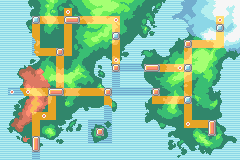
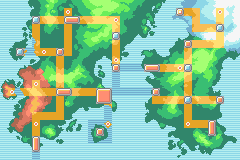
Updates to region layout, add toggle route display

diff --git a/region/index.html b/region/index.html
@@ -11,6 +11,12 @@
             font-weight: normal;
             font-style: normal;
         }
+        @font-face {
+            font-family: 'Pokemon Gen3 Battle';
+            src: url('../pokemon-gen3-battle.otf.woff2') format('woff2');
+            font-weight: normal;
+            font-style: normal;
+        }
         body {
             margin: 0;
             font-family: Arial, sans-serif;
@@ -108,6 +114,10 @@
             width: 3.3cqw;
             height: auto;
         }
+        .hotspot.biggest-city img {
+            width: 6.6cqw;
+            height: auto;
+        }
         .hotspot.town img {
             width: 3.3cqw;
             height: auto;
@@ -115,6 +125,24 @@
         .hotspot.landmark img {
             width: 3.3cqw;
             height: auto;
+        }
+        .hotspot.league img {
+            width: 3.3cqw;
+            height: auto;
+        }
+
+        /* Route number markers */
+        .route-marker {
+            position: absolute;
+            transform: translate(-50%, -50%);
+            color: #b8890e;
+            font-family: 'Pokemon Gen3 Battle', cursive;
+            font-size: 1.4cqw;
+            -webkit-font-smoothing: antialiased;
+            -moz-osx-font-smoothing: grayscale;
+            pointer-events: none;
+            white-space: nowrap;
+            z-index: 5;
         }
 
         /* Tooltip */
@@ -226,11 +254,26 @@
             color: rgba(255, 255, 255, 0.9);
             line-height: 1.4;
         }
+        .wip-toggle {
+            display: flex;
+            align-items: center;
+            gap: 8px;
+            cursor: pointer;
+            color: rgba(255, 255, 255, 0.9);
+            line-height: 1.4;
+        }
+        .wip-toggle input {
+            cursor: pointer;
+            accent-color: #ffcc00;
+        }
+        .map-container.routes-hidden .route-marker {
+            display: none;
+        }
         .wip-section {
             display: flex;
             flex-direction: column;
         }
-        .wip-section:first-child {
+        .wip-section:not(:last-child) {
             padding-bottom: 12px;
             border-bottom: 1px solid rgba(255, 255, 255, 0.3);
         }
@@ -285,7 +328,7 @@
             .wip-banner h4 {
                 font-size: 14px;
             }
-            .wip-section:first-child {
+            .wip-section:not(:last-child) {
                 padding-bottom: 6px;
             }
             .hotspot .tooltip {
@@ -322,7 +365,7 @@
                 flex: 1;
                 min-width: 120px;
             }
-            .wip-section:first-child {
+            .wip-section:not(:last-child) {
                 border-bottom: none;
                 padding-bottom: 0;
                 border-right: 1px solid rgba(255, 255, 255, 0.3);
@@ -364,7 +407,7 @@
                 font-size: 12px;
                 margin-bottom: 3px;
             }
-            .wip-section:first-child {
+            .wip-section:not(:last-child) {
                 padding-bottom: 4px;
             }
         }
@@ -384,19 +427,11 @@
             <!-- WIP Banner (outside map-container for fixed position) -->
             <div class="wip-banner">
                 <div class="wip-section">
-                    <h4>CITIES TO ADD</h4>
-                    <ul>
-                        <li>Sheliana City</li>
-                        <li>Limelock Island</li>
-                        <li>Loftshore City</li>
-                        <li>Citridock Village</li>
-                    </ul>
-                </div>
-                <div class="wip-section">
-                    <h4>SPOTS TO ADD</h4>
-                    <ul>
-                        <li>Corsola Cradle</li>
-                    </ul>
+                    <h4>DISPLAY</h4>
+                    <label class="wip-toggle">
+                        <input type="checkbox" id="toggle-routes" checked>
+                        Show Routes
+                    </label>
                 </div>
             </div>
 
@@ -408,31 +443,35 @@
                 <img src="../landmark.PNG" alt="">
                 <span class="tooltip">Fernhill Forest</span>
             </div>
-            <div class="hotspot landmark" style="left: 48.4%; top: 37.5%;">
+            <div class="hotspot landmark" style="left: 48.3%; top: 37.5%;">
                 <img src="../landmark.PNG" alt="">
                 <span class="tooltip">Coastline Cave</span>
             </div>
-            <div class="hotspot landmark" style="left: 48.4%; top: 12.5%;">
+            <div class="hotspot landmark" style="left: 48.3%; top: 12.5%;">
                 <img src="../landmark.PNG" alt="">
                 <span class="tooltip">Nimbus Jungle</span>
             </div>
-            <div class="hotspot landmark" style="left: 28.4%; top: 7.5%;">
+            <div class="hotspot landmark" style="left: 28.3%; top: 7.5%;">
                 <img src="../landmark.PNG" alt="">
                 <span class="tooltip">Copperdale Ruins</span>
             </div>
-            <div class="hotspot landmark" style="left: 11.7%; top: 57.5%;">
+            <div class="hotspot landmark" style="left: 18.3%; top: 32.5%;">
                 <img src="../landmark.PNG" alt="">
-                <span class="tooltip">Dawndune Outpost</span>
+                <span class="tooltip">Gale Hollow</span>
+            </div>
+            <div class="hotspot landmark" style="left: 15%; top: 52.5%;">
+                <img src="../landmark.PNG" alt="">
+                <span class="tooltip">Dawndune Wastes</span>
             </div>
             <div class="hotspot landmark" style="left: 5%; top: 57.5%;">
                 <img src="../landmark.PNG" alt="">
                 <span class="tooltip">Roseburn Island</span>
             </div>
-            <div class="hotspot landmark" style="left: 45%; top: 77.4%;">
+            <div class="hotspot landmark" style="left: 45%; top: 77.5%;">
                 <img src="../landmark.PNG" alt="">
                 <span class="tooltip">Devon Industrial Complex</span>
             </div>
-            <div class="hotspot landmark" style="left: 18.4%; top: 72.5%;">
+            <div class="hotspot landmark" style="left: 15%; top: 77.5%;">
                 <img src="../landmark.PNG" alt="">
                 <span class="tooltip">Dustspire Canyon</span>
             </div>
@@ -440,13 +479,13 @@
                 <img src="../landmark.PNG" alt="">
                 <span class="tooltip">Unnamed Cherry Forest</span>
             </div>
-            <div class="hotspot landmark" style="left: 91.7%; top: 12.5%;">
+            <div class="hotspot landmark" style="left: 91.7%; top: 7.5%;">
                 <img src="../landmark.PNG" alt="">
                 <span class="tooltip">Mt. Azuric</span>
             </div>
 
             <!-- 5 Towns -->
-            <div class="hotspot town" style="left: 78.4%; top: 42.5%;">
+            <div class="hotspot town" style="left: 78.3%; top: 42.5%;">
                 <img src="../town.PNG" alt="">
                 <span class="tooltip">Fernhill Town</span>
             </div>
@@ -456,11 +495,15 @@
             </div>
             <div class="hotspot town" style="left: 15%; top: 12.5%;">
                 <img src="../town.PNG" alt="">
-                <span class="tooltip">Unnamed Town</span>
+                <span class="tooltip">Citridock Village</span>
             </div>
-            <div class="hotspot town" style="left: 78.4%; top: 62.5%;">
+            <div class="hotspot town" style="left: 78.3%; top: 62.5%;">
                 <img src="../town.PNG" alt="">
-                <span class="tooltip">Unnamed Town</span>
+                <span class="tooltip">Gag Town</span>
+            </div>
+            <div class="hotspot town" style="left: 8.4%; top: 32.5%;">
+                <img src="../town.PNG" alt="">
+                <span class="tooltip">Limelock Island</span>
             </div>
             <div class="hotspot town" style="left: 91.7%; top: 17.5%;">
                 <img src="../town.PNG" alt="">
@@ -468,7 +511,7 @@
             </div>
 
             <!-- 6 Normal Cities -->
-            <div class="hotspot city" style="left: 78.4%; top: 27.5%;">
+            <div class="hotspot city" style="left: 78.3%; top: 27.5%;">
                 <img src="../city.PNG" alt="">
                 <span class="tooltip">Artemisia City</span>
             </div>
@@ -488,6 +531,10 @@
                 <img src="../city.PNG" alt="">
                 <span class="tooltip">Seagress City</span>
             </div>
+            <div class="hotspot city" style="left: 91.7%; top: 62.5%;">
+                <img src="../city.PNG" alt="">
+                <span class="tooltip">Loftshore City</span>
+            </div>
 
             <!-- 3 Horizontal Big Cities -->
             <div class="hotspot big-city-horizontal" style="left: 63.4%; top: 42.5%;">
@@ -498,13 +545,13 @@
                 <img src="../big_city_horizontal.PNG" alt="">
                 <span class="tooltip">Copperdale City</span>
             </div>
-            <div class="hotspot big-city-horizontal" style="left: 23.4%; top: 57.5%;">
+            <div class="hotspot big-city-horizontal" style="left: 26.6%; top: 57.5%;">
                 <img src="../big_city_horizontal.PNG" alt="">
                 <span class="tooltip">Sonodusk City</span>
             </div>
 
             <!-- 2 Vertical Big Cities -->
-            <div class="hotspot big-city-vertical" style="left: 88.4%; top: 80%;">
+            <div class="hotspot big-city-vertical" style="left: 88.3%; top: 80%;">
                 <img src="../big_city_vertical.PNG" alt="">
                 <span class="tooltip">Cerise City</span>
             </div>
@@ -512,6 +559,44 @@
                 <img src="../big_city_vertical.PNG" alt="">
                 <span class="tooltip">Palmeadow City</span>
             </div>
+
+            <div class="hotspot biggest-city" style="left: 43.3%; top: 60%;">
+                <img src="../biggest_city.PNG" alt="">
+                <span class="tooltip">Sheliana City</span>
+            </div>
+
+            <div class="hotspot league" style="left: 75%; top: 7.5%;">
+                <img src="../league.PNG" alt="">
+                <span class="tooltip">Pokémon League</span>
+            </div>
+
+            <!-- Route markers -->
+            <div class="route-marker" style="left: 78.3%; top: 35%;">137</div>
+            <div class="route-marker" style="left: 70.85%; top: 42.5%;">138</div>
+            <div class="route-marker" style="left: 55.08%; top: 42.5%; color: #3f80b5;">139</div>
+            <div class="route-marker" style="left: 48.3%; top: 32%;">140</div>
+            <div class="route-marker" style="left: 48.3%; top: 17.5%;">141</div>
+            <div class="route-marker" style="left: 40.85%; top: 12.5%;">142</div>
+            <div class="route-marker" style="left: 20.85%; top: 12.5%;">143</div>
+            <div class="route-marker" style="left: 15%; top: 22.5%;">144</div>
+            <div class="route-marker" style="left: 21.3%; top: 32.5%;">145</div>
+            <div class="route-marker" style="left: 28.35%; top: 22.5%;">146</div>
+            <div class="route-marker" style="left: 25%; top: 45%;">147</div>
+            <div class="route-marker" style="left: 14.98%; top: 57.5%;">148</div>
+            <div class="route-marker" style="left: 35%; top: 57.5%;">149</div>
+            <div class="route-marker" style="left: 44.97%; top: 69.99%; color: #3f80b5;">150</div>
+            <div class="route-marker" style="left: 54.97%; top: 57.5%; color: #3f80b5;">151</div>
+            <div class="route-marker" style="left: 71.65%; top: 62.5%;">152</div>
+            <div class="route-marker" style="left: 78.3%; top: 70%;">153</div>
+            <div class="route-marker" style="left: 83.3%; top: 77.51%;">154</div>
+            <div class="route-marker" style="left: 85%; top: 62.5%;">155</div>
+            <div class="route-marker" style="left: 78.3%; top: 52.5%;">156</div>
+            <div class="route-marker" style="left: 86.4%; top: 27.5%;">157</div>
+            <div class="route-marker" style="left: 91.7%; top: 11.8%;">158</div>
+            <div class="route-marker" style="left: 85%; top: 17.5%;">159</div>
+            <div class="route-marker" style="left: 25%; top: 67.5%;">160</div>
+            <div class="route-marker" style="left: 15%; top: 81.8%;">161</div>
+
             </div>
         </div>
     </div>
@@ -521,6 +606,12 @@
             const viewport = document.querySelector('.map-viewport');
             const container = document.querySelector('.map-container');
             const tooltips = document.querySelectorAll('.hotspot .tooltip');
+            const toggleRoutes = document.getElementById('toggle-routes');
+            if (toggleRoutes) {
+                toggleRoutes.addEventListener('change', () => {
+                    container.classList.toggle('routes-hidden', !toggleRoutes.checked);
+                });
+            }
 
             let scale = 1;
             let panX = 0;
